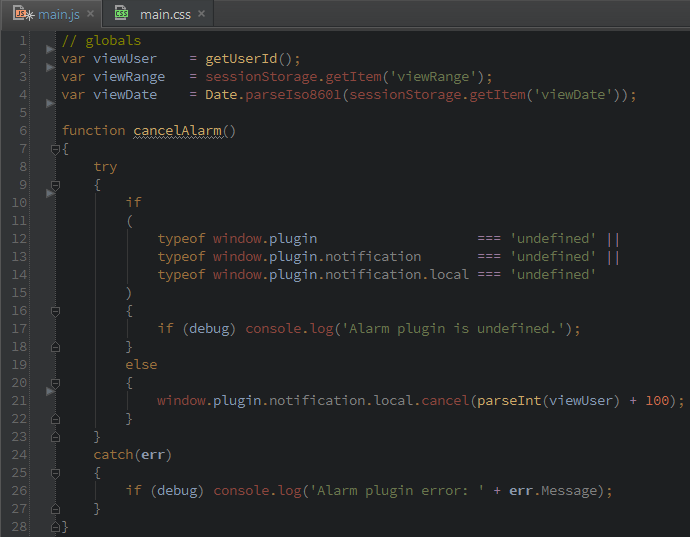
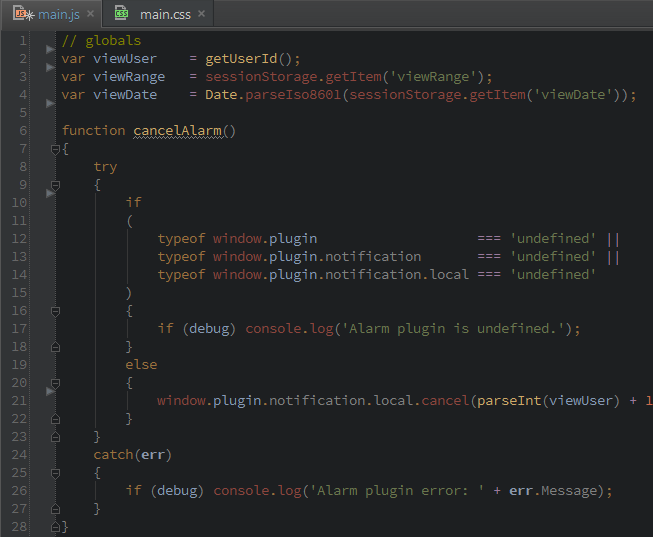
Tidied Up Screenshots
Made all a uniform width. Rearranged order of display.

diff --git a/README.md b/README.md
@@ -73,6 +73,7 @@ Other IDE settings for an optimal experience:
 Screenshots
 -----------
 
-![Dark Room (Normal)](/jetbrains/screenshots/html.png?raw=true "HTML File")
-![Dark Room (Normal)](/jetbrains/screenshots/css.png?raw=true "CSS File")
-![Dark Room (Normal)](/jetbrains/screenshots/js.png?raw=true "JavaScript File")
+![WebStorm Screenshot](/jetbrains/screenshots/js.png?raw=true "Dark Room (Normal) - JavaScript File")
+![WebStorm Screenshot](/jetbrains/screenshots/css.png?raw=true "Dark Room (Normal) - CSS File")
+![WebStorm Screenshot](/jetbrains/screenshots/html.png?raw=true "Dark Room (Normal) - HTML File")
+
